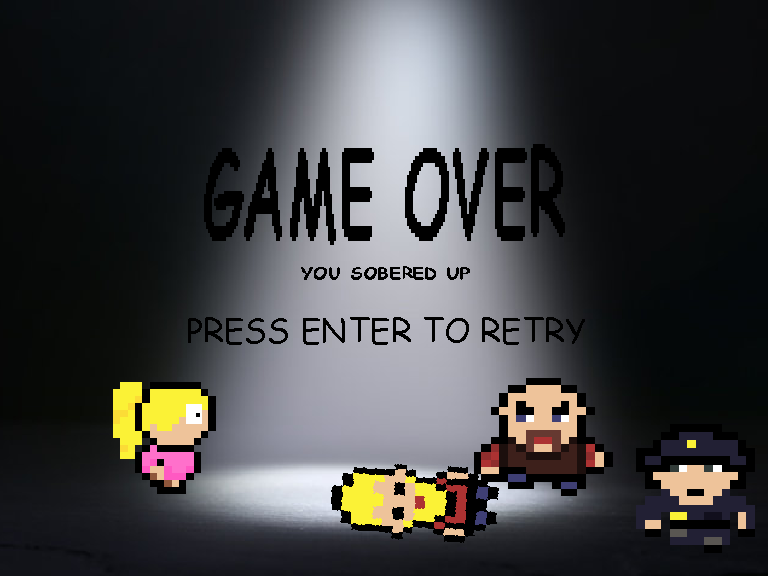
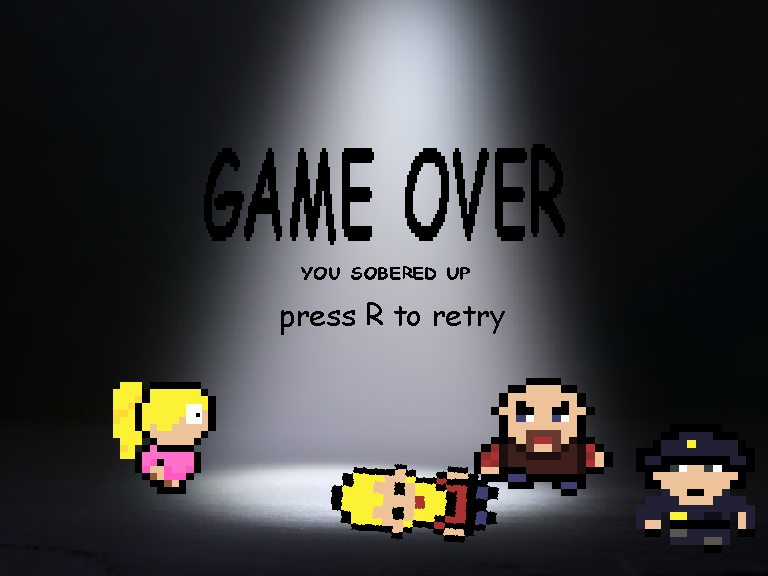
Final changes

Changed region(s): [[0.2188, 0.5312, 0.7812, 0.5938]]

diff --git a/src/main/java/no/uib/inf101/sample/entity/CollisionDetection.java b/src/main/java/no/uib/inf101/sample/entity/CollisionDetection.java
@@ -20,19 +20,19 @@ public class CollisionDetection {
     protected void checkTile(Player player) {
         int playerLeftX, playerRightX, playerTopY, playerBottomY;
 
-        if ("left".equals(player.getDirection())) {
+        if ("left".equals(player.getMovementDirection())) {
             // Player is wider when facing left so left x is further to the right
             playerLeftX = player.getX() + game.getTileSize() + player.getHitBox().x;
             playerRightX = player.getX() + game.getTileSize() + player.getHitBox().x + player.getHitBox().width;
             playerTopY = player.getY();
             playerBottomY = player.getY() + player.getHitBox().height;
-        } else if ("right".equals(player.getDirection())) {
+        } else if ("right".equals(player.getMovementDirection())) {
             // Player is wider when facing left so right x is further to the left
             playerLeftX = player.getX() + player.getHitBox().x;
             playerRightX = player.getX() + player.getHitBox().x + player.getHitBox().width;
             playerTopY = player.getY();
             playerBottomY = player.getY() + player.getHitBox().height;
-        } else if ("up".equals(player.getDirection())) {
+        } else if ("up".equals(player.getMovementDirection())) {
             // Player is taller when facing up so top y is further down
             playerLeftX = player.getX() + player.getHitBox().x;
             playerRightX = player.getX() + player.getHitBox().x + player.getHitBox().width;
@@ -46,7 +46,7 @@ public class CollisionDetection {
             playerBottomY = player.getY() + player.getHitBox().height;
         }
 
-        doSomething(player, playerLeftX, playerRightX, playerTopY, playerBottomY);
+        checkCollision(player, playerLeftX, playerRightX, playerTopY, playerBottomY);
 
     }
 
@@ -63,10 +63,10 @@ public class CollisionDetection {
         int entityTopY = enemy.getY();
         int entityBottomY = enemy.getY() + enemy.getHitBox().height;
 
-       doSomething(enemy, entityLeftX, entityRightX, entityTopY, entityBottomY);
+       checkCollision(enemy, entityLeftX, entityRightX, entityTopY, entityBottomY);
     }
 
-    private void doSomething(Entity entity, int leftX, int rightX, int topY, int bottomY) {
+    private void checkCollision(Entity entity, int leftX, int rightX, int topY, int bottomY) {
         int gridCellNum1, gridCellNum2;
 
         // Calculates the number of tiles from the edge of the screen
@@ -77,30 +77,30 @@ public class CollisionDetection {
         int entityTopRow = (topY - entity.getSpeed()) / game.getTileSize();
         int entityBottomRow = (bottomY + entity.getSpeed()) / game.getTileSize();
 
-        if ("up".equals(entity.getDirection())) {
+        if ("up".equals(entity.getMovementDirection())) {
             gridCellNum1 = getGridCellNumber(entityLeftCol, entityTopRow);
             gridCellNum2 = getGridCellNumber(entityRightCol, entityTopRow);
-            if (checkCollision(gridCellNum1) || checkCollision(gridCellNum2)) {
+            if (checkCollisionOnGridCell(gridCellNum1) || checkCollisionOnGridCell(gridCellNum2)) {
                 entity.setCollisionOn(true);
             }
-        } else if ("down".equals(entity.getDirection())) {
+        } else if ("down".equals(entity.getMovementDirection())) {
             gridCellNum1 = getGridCellNumber(entityLeftCol, entityBottomRow);
             gridCellNum2 = getGridCellNumber(entityRightCol, entityBottomRow);
-            if (checkCollision(gridCellNum1) || checkCollision(gridCellNum2)) {
+            if (checkCollisionOnGridCell(gridCellNum1) || checkCollisionOnGridCell(gridCellNum2)) {
                 entity.setCollisionOn(true);
             }
-        } else if ("left".equals(entity.getDirection())) {
+        } else if ("left".equals(entity.getMovementDirection())) {
             entityLeftCol = (leftX - entity.getSpeed()) / game.getTileSize();
             gridCellNum1 = getGridCellNumber(entityLeftCol, entityTopRow);
             gridCellNum2 = getGridCellNumber(entityLeftCol, entityBottomRow);
-            if (checkCollision(gridCellNum1) || checkCollision(gridCellNum2)) {
+            if (checkCollisionOnGridCell(gridCellNum1) || checkCollisionOnGridCell(gridCellNum2)) {
                 entity.setCollisionOn(true);
             }
         } else {
             entityRightCol = (rightX + entity.getSpeed()) / game.getTileSize();
             gridCellNum1 = getGridCellNumber(entityRightCol, entityTopRow);
             gridCellNum2 = getGridCellNumber(entityRightCol, entityBottomRow);
-            if (checkCollision(gridCellNum1) || checkCollision(gridCellNum2)) {
+            if (checkCollisionOnGridCell(gridCellNum1) || checkCollisionOnGridCell(gridCellNum2)) {
                 entity.setCollisionOn(true);
             }
         }
@@ -110,7 +110,7 @@ public class CollisionDetection {
         return game.gridFactory.getGridCellNUm()[col][row];
     }
 
-    public boolean checkCollision(int cellNumber) {
+    public boolean checkCollisionOnGridCell(int cellNumber) {
         return game.gridFactory.getGridCell()[cellNumber].collision;
     }
 }

diff --git a/src/test/java/no/uib/inf101/sample/entity/enemy/EnemyTest.java b/src/test/java/no/uib/inf101/sample/entity/enemy/EnemyTest.java
@@ -11,6 +11,7 @@ import no.uib.inf101.sample.GameState;
 import no.uib.inf101.sample.entity.Player;
 
 public class EnemyTest {
+    
     @Test
     public void testFastEnemyDefaultValues() {
         // Create a Game instance and a GameController instance
@@ -26,7 +27,7 @@ public class EnemyTest {
         // Test default values
         assertEquals(2, fastEnemy.getHealthpoints());
         assertEquals(3, fastEnemy.getSpeed());
-        assertEquals("right", fastEnemy.getDirection());
+        assertEquals("right", fastEnemy.getMovementDirection());
         assertTrue(fastEnemy.getIsAlive());
     }
 
@@ -44,7 +45,7 @@ public class EnemyTest {
 
         assertEquals(3, normalEnemy.getHealthpoints());
         assertEquals(2, normalEnemy.getSpeed());
-        assertEquals("right", normalEnemy.getDirection());
+        assertEquals("right", normalEnemy.getMovementDirection());
         assertTrue(normalEnemy.getIsAlive());
     }
 
@@ -62,7 +63,7 @@ public class EnemyTest {
 
         assertEquals(4, slowEnemy.getHealthpoints());
         assertEquals(1, slowEnemy.getSpeed());
-        assertEquals("right", slowEnemy.getDirection());
+        assertEquals("right", slowEnemy.getMovementDirection());
         assertTrue(slowEnemy.getIsAlive());
     }
 
@@ -84,7 +85,7 @@ public class EnemyTest {
         // Save the initial X position
         fastEnemy.setX(200);
         fastEnemy.setY(200);
-        fastEnemy.setDirection("right");
+        fastEnemy.setMovementDirection("right");
         
         fastEnemy.update();
 
@@ -195,7 +196,7 @@ public class EnemyTest {
         normalEnemy.setY(100); // Sample initial Y coordinate
 
         // Set movement direction of the enemy towards the player
-        normalEnemy.setDirection("down");
+        normalEnemy.setMovementDirection("down");
 
         // Call the update method
         normalEnemy.update();

diff --git a/src/main/java/no/uib/inf101/sample/DrawGame.java b/src/main/java/no/uib/inf101/sample/DrawGame.java
@@ -3,7 +3,7 @@ package no.uib.inf101.sample;
 import java.awt.Color;
 import java.awt.Font;
 import java.awt.Graphics2D;
-import java.awt.Image;
+import java.awt.image.BufferedImage;
 import java.util.ArrayList;
 
 import no.uib.inf101.sample.entity.Player;
@@ -15,11 +15,11 @@ public class DrawGame {
     Game game;
     Player player;
 
-    private int yTitle = 100; // Move yTitle to class level
-    private int numTitle = 1; // Move num to class level
+    private int yTitle = 100; 
+    private int numTitle = 1; 
     private int counterTitle = 1;
 
-    private Image background, title, beer, beer2, beer3, keepCalm, map, emptyBeer, gameOver, victoryScreen, waterCooler,
+    private BufferedImage background, title, beer, beer2, beer3, keepCalm, map, emptyBeer, gameOver, victoryScreen, waterCooler,
             bottleOfAlcohol, levelSelect;
 
     public DrawGame(Game game, Player player) {
@@ -79,6 +79,7 @@ public class DrawGame {
         int screenWidth = game.getScreenWidth();
         ArrayList<Enemy> enemyList = game.getEnemyList();
         ArrayList<Projectile> projectileList = game.getProjectileList();
+
         g2.drawImage(map, 0, 0, screenWidth, screenHeight, null);
 
         player.draw(g2);
@@ -106,6 +107,8 @@ public class DrawGame {
         int tileSize = game.getTileSize();
         int commandNum = game.getCommandNum();
         g2.drawImage(background, 0, 0, screenWidth, screenHeight, null);
+
+        // Moves title up and down
         if (yTitle <= 105 && 95 <= yTitle) {
             counterTitle++;
             if (counterTitle > 5) {
@@ -124,6 +127,7 @@ public class DrawGame {
         g2.setFont(new Font("IMPACT", Font.BOLD, 50));
         g2.setColor(Color.BLACK);
 
+        
         String text = "NEW GAME";
         int x = xCenterText(text, g2);
         int y = tileSize * 7;

diff --git a/src/test/java/no/uib/inf101/sample/entity/CollisionDetectionTest.java b/src/test/java/no/uib/inf101/sample/entity/CollisionDetectionTest.java
@@ -6,8 +6,6 @@ import org.junit.jupiter.api.BeforeEach;
 import org.junit.jupiter.api.Test;
 
 import no.uib.inf101.sample.Game;
-import no.uib.inf101.sample.entity.CollisionDetection;
-import no.uib.inf101.sample.entity.Player;
 import no.uib.inf101.sample.entity.enemy.NormalEnemy;
 
 public class CollisionDetectionTest {
@@ -24,7 +22,7 @@ public class CollisionDetectionTest {
     @Test
     public void testCheckTile_PlayerUp_NoCollision() {
         Player player = new Player(game, null);
-        player.setDirection("up");
+        player.setMovementDirection("up");
         player.setX(100);
         player.setY(100);
         player.setSpeed(5);
@@ -36,7 +34,7 @@ public class CollisionDetectionTest {
     @Test
     public void testCheckTile_EnemyLeft_NoCollision() {
         NormalEnemy enemy = new NormalEnemy(game, null);
-        enemy.setDirection("left");
+        enemy.setMovementDirection("left");
         enemy.setX(100);
         enemy.setY(100);
         enemy.setSpeed(5);
@@ -48,7 +46,7 @@ public class CollisionDetectionTest {
     @Test
     public void testCheckTile_EnemyRight_Collision() {
         NormalEnemy enemy = new NormalEnemy(game, null);
-        enemy.setDirection("right");
+        enemy.setMovementDirection("right");
         enemy.setX(game.getTileSize() * 5);
         enemy.setY(50);
         enemy.setSpeed(5);

diff --git a/src/main/java/no/uib/inf101/sample/entity/Entity.java b/src/main/java/no/uib/inf101/sample/entity/Entity.java
@@ -48,6 +48,7 @@ public abstract class Entity {
             return true;
         }
     }
+
     /**
      * Sets default values of object after the contructor is made.
      */
@@ -87,12 +88,12 @@ public abstract class Entity {
         this.y = y;
     }
 
-    public String getDirection() {
+    public String getMovementDirection() {
         return movementDirection;
     }
 
-    public void setDirection(String direction) {
-        this.movementDirection = direction;
+    public void setMovementDirection(String movementDirection) {
+        this.movementDirection = movementDirection;
     }
 
     public void setHealthpoints(int healthPoints) {

diff --git a/src/test/java/no/uib/inf101/sample/entity/PlayerTest.java b/src/test/java/no/uib/inf101/sample/entity/PlayerTest.java
@@ -24,7 +24,7 @@ public class PlayerTest {
         assertEquals(game.getScreenHeight() / 2, player.getY());
         assertEquals(6, player.getHealthpoints());
         assertEquals(4, player.getSpeed());
-        assertEquals("right", player.getDirection());
+        assertEquals("right", player.getMovementDirection());
         assertTrue(player.getIsAlive());
     }
 
